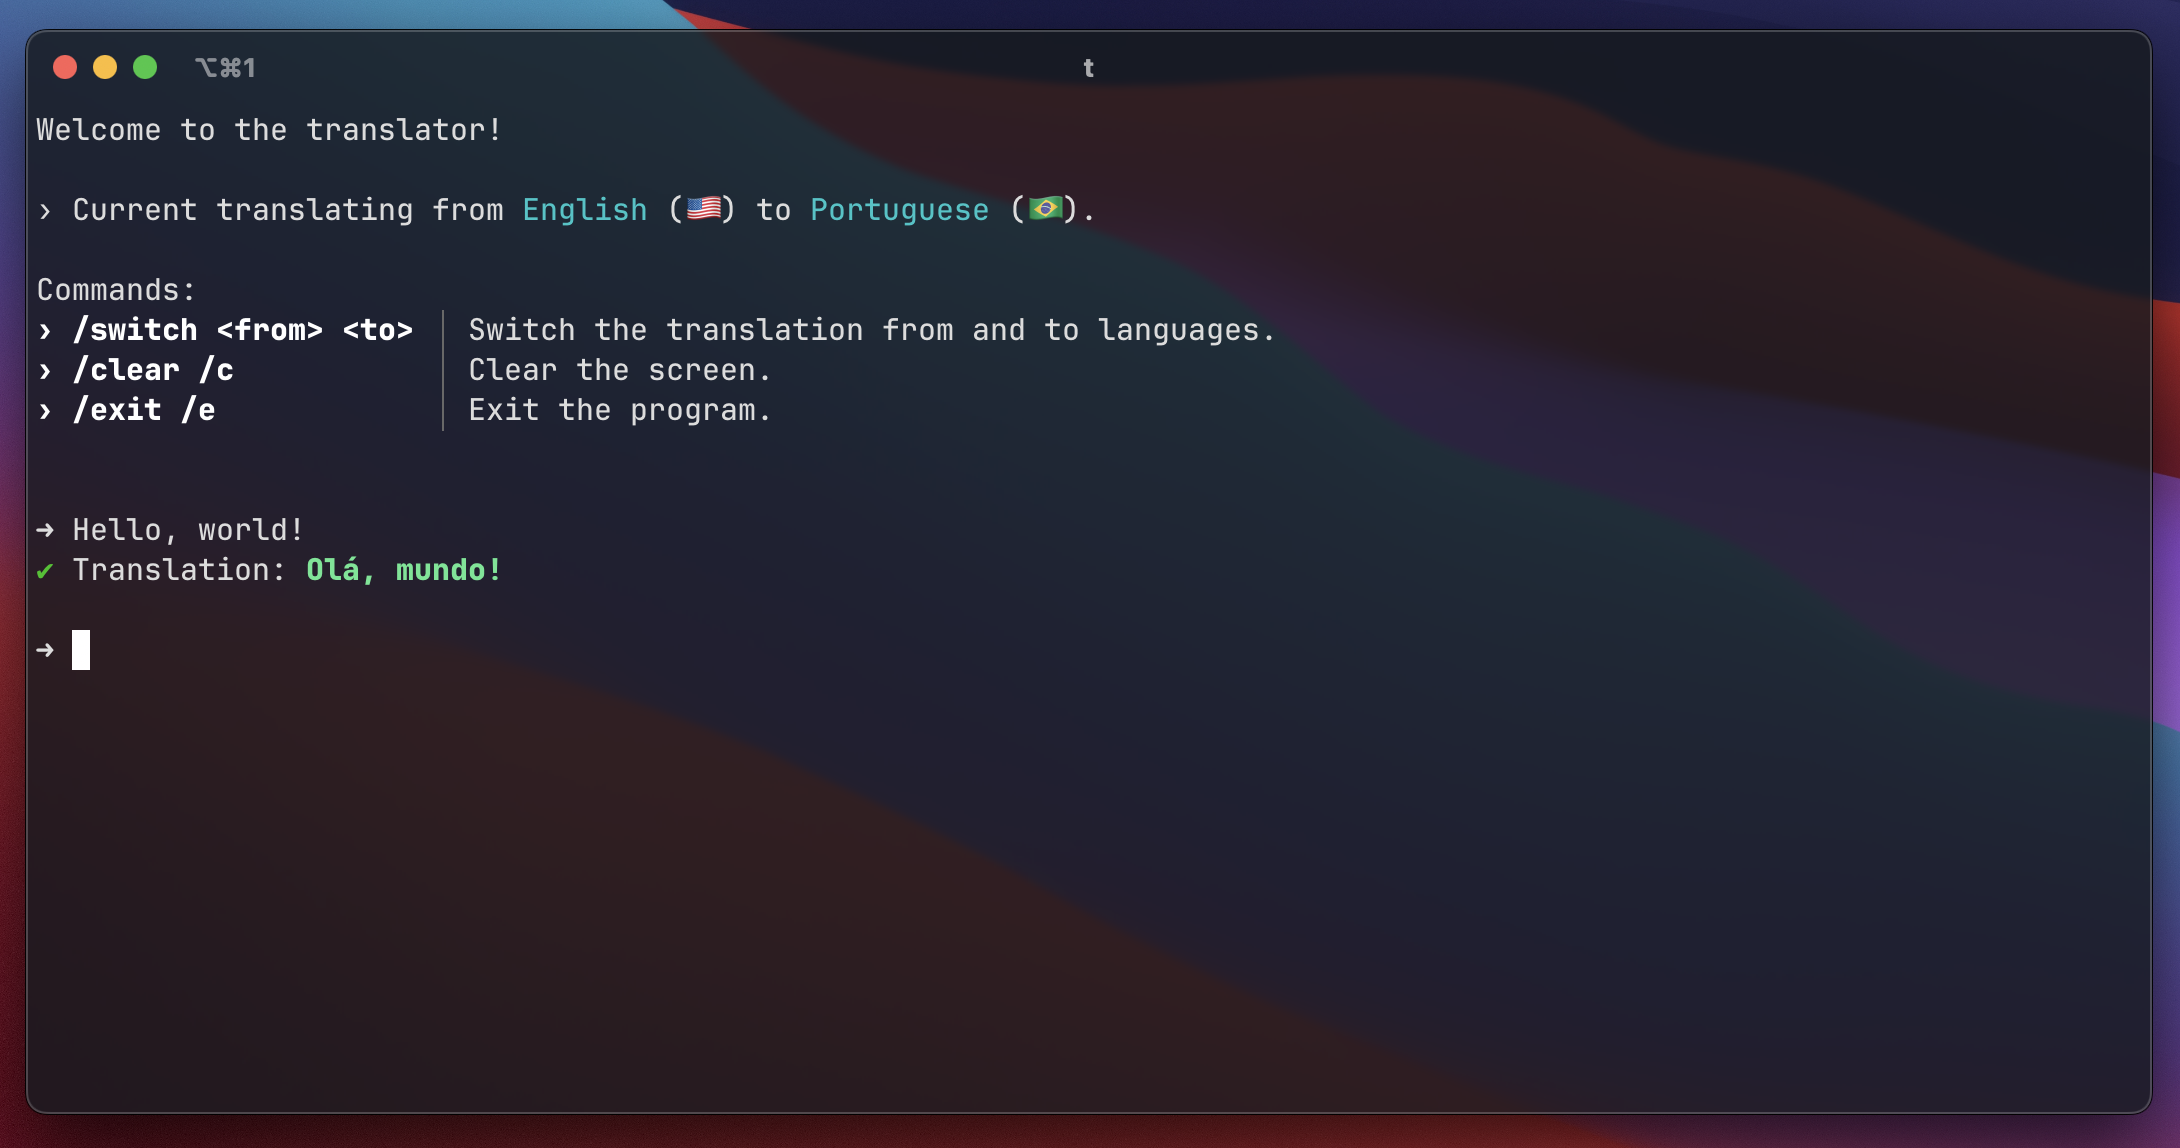
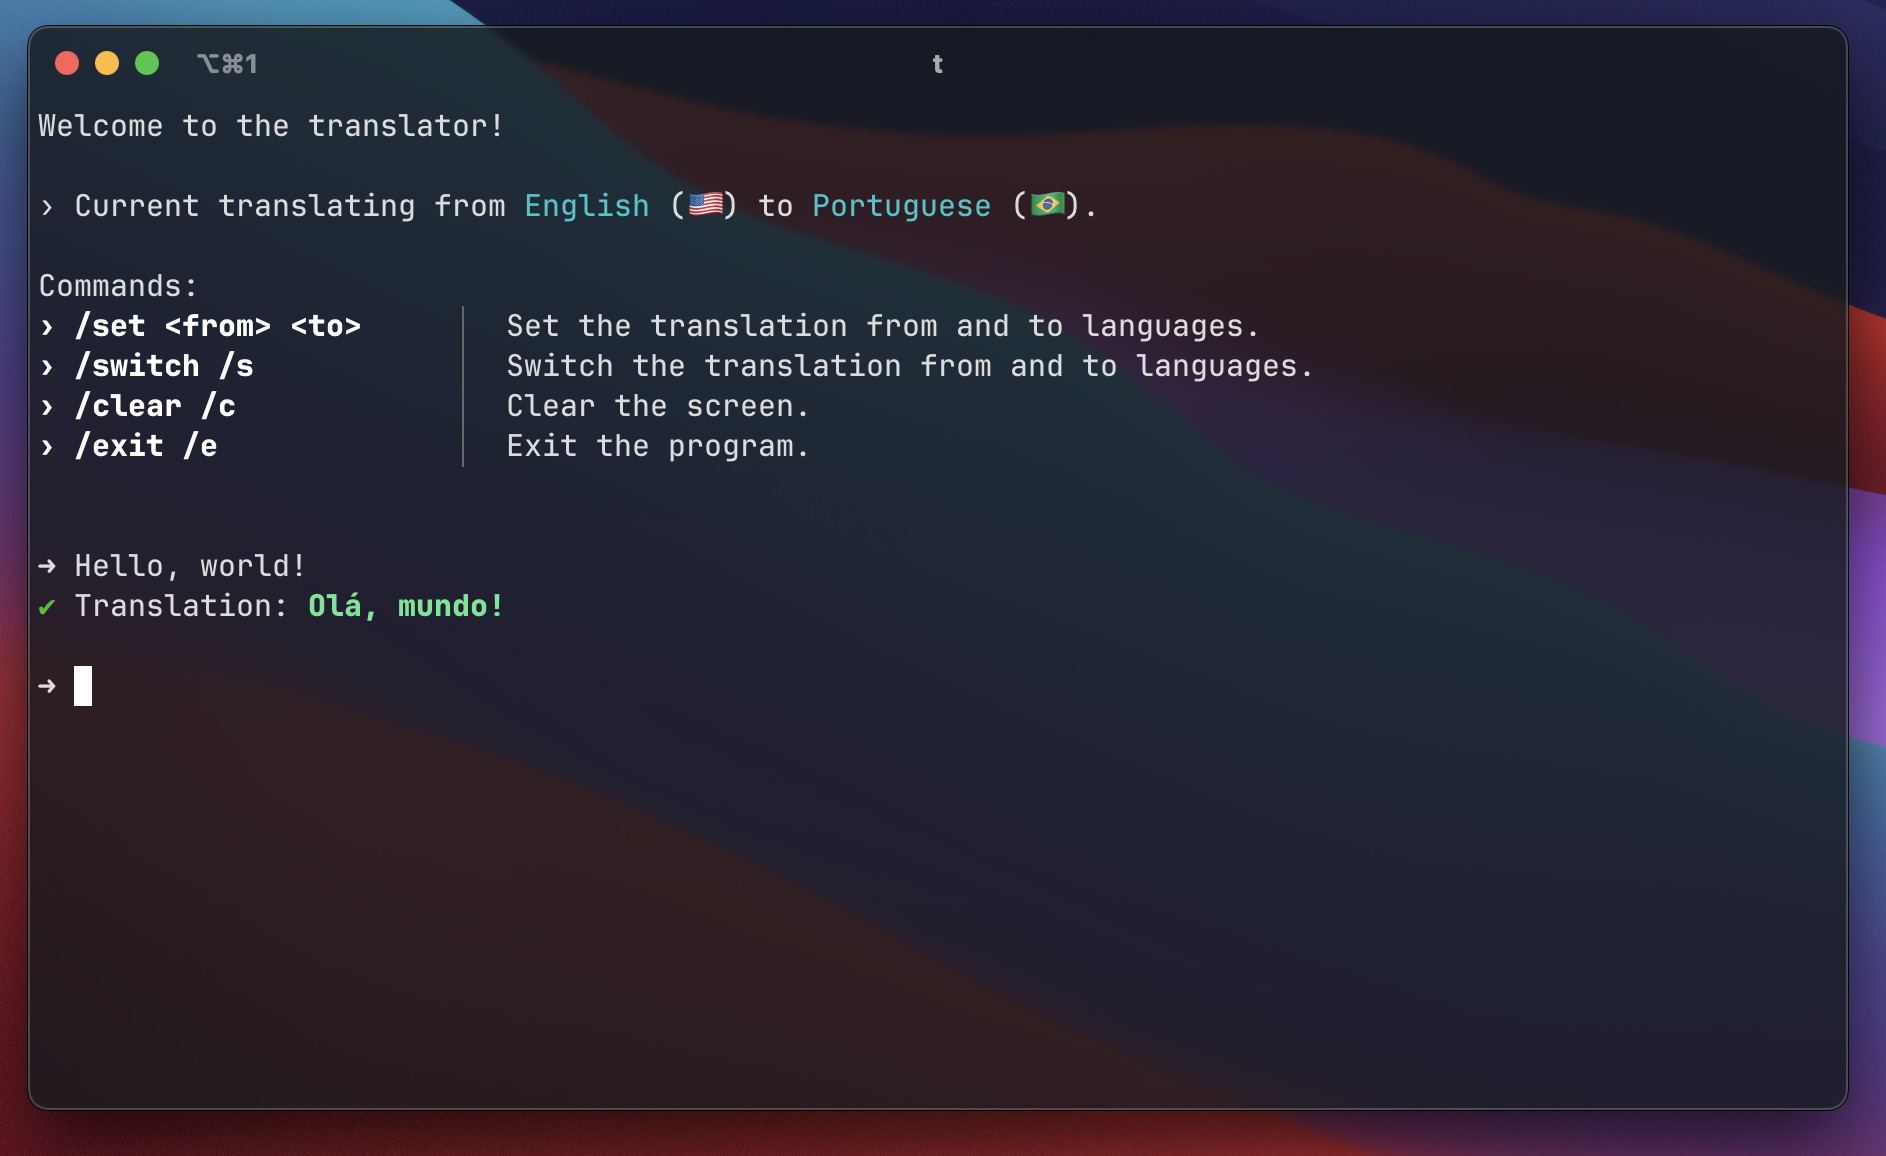
feat: Add /set and refactor /switch command

Changed region(s): [[0.0, 0.0, 1.0, 1.0]]

diff --git a/src/index.ts b/src/index.ts
@@ -16,7 +16,11 @@ const rl = readline.createInterface({
 
 const commands = [
   {
-    name: "/switch <from> <to>",
+    name: "/set <from> <to>",
+    description: "Set the translation from and to languages.",
+  },
+  {
+    name: "/switch /s",
     description: "Switch the translation from and to languages.",
   },
   {
@@ -88,11 +92,11 @@ rl.on("line", async (line) => {
     return;
   }
 
-  if (str.startsWith("/switch")) {
+  if (str.startsWith("/set")) {
     const [_, newFrom, newTo] = str.split(" ");
 
     if (!newFrom || !newTo) {
-      console.log(logSymbols.error, "Invalid syntax. Use /switch <from> <to>");
+      console.log(logSymbols.error, "Invalid syntax. Use /set <from> <to>");
       rl.prompt();
       return;
     }
@@ -104,6 +108,19 @@ rl.on("line", async (line) => {
 
     rl.prompt();
     return;
+  }
+
+  if (str === "/switch" || str === "/s") {
+    const from = Config.get<string>("from");
+    const to = Config.get<string>("to");
+
+    Config.set("from", to);
+    Config.set("to", from);
+
+    clear();
+
+    rl.prompt();
+    return
   }
 
   if (!str) {
